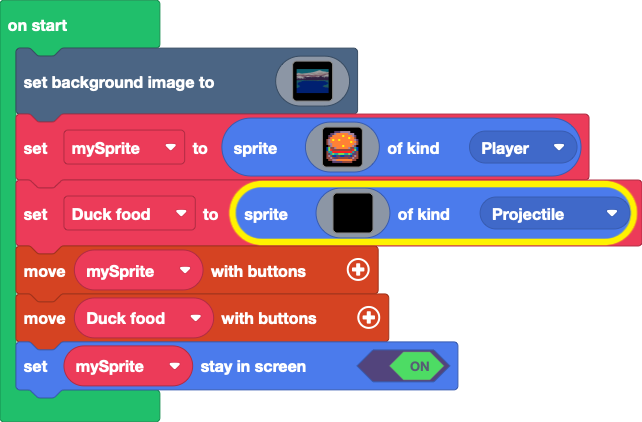
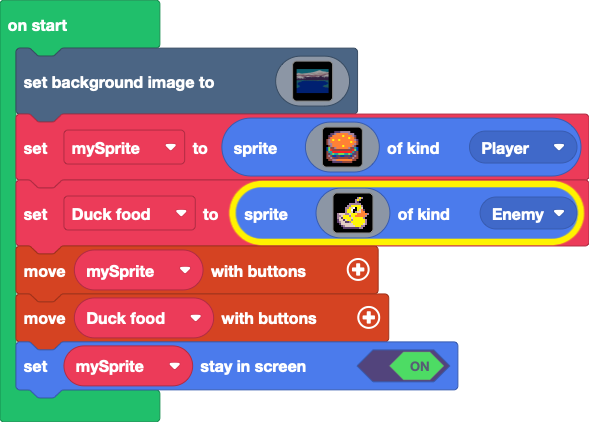
Update main.blocks, main.ts

diff --git a/main.ts b/main.ts
@@ -155,7 +155,7 @@ let Duck_food = sprites.create(img`
     . c d d d d d d 5 5 5 5 5 d b . 
     . . c b d d d d d 5 5 5 b b . . 
     . . . c c c c c c c c b b . . . 
-    `, SpriteKind.Projectile)
+    `, SpriteKind.Enemy)
 controller.moveSprite(mySprite)
 controller.moveSprite(Duck_food)
 mySprite.setStayInScreen(true)
